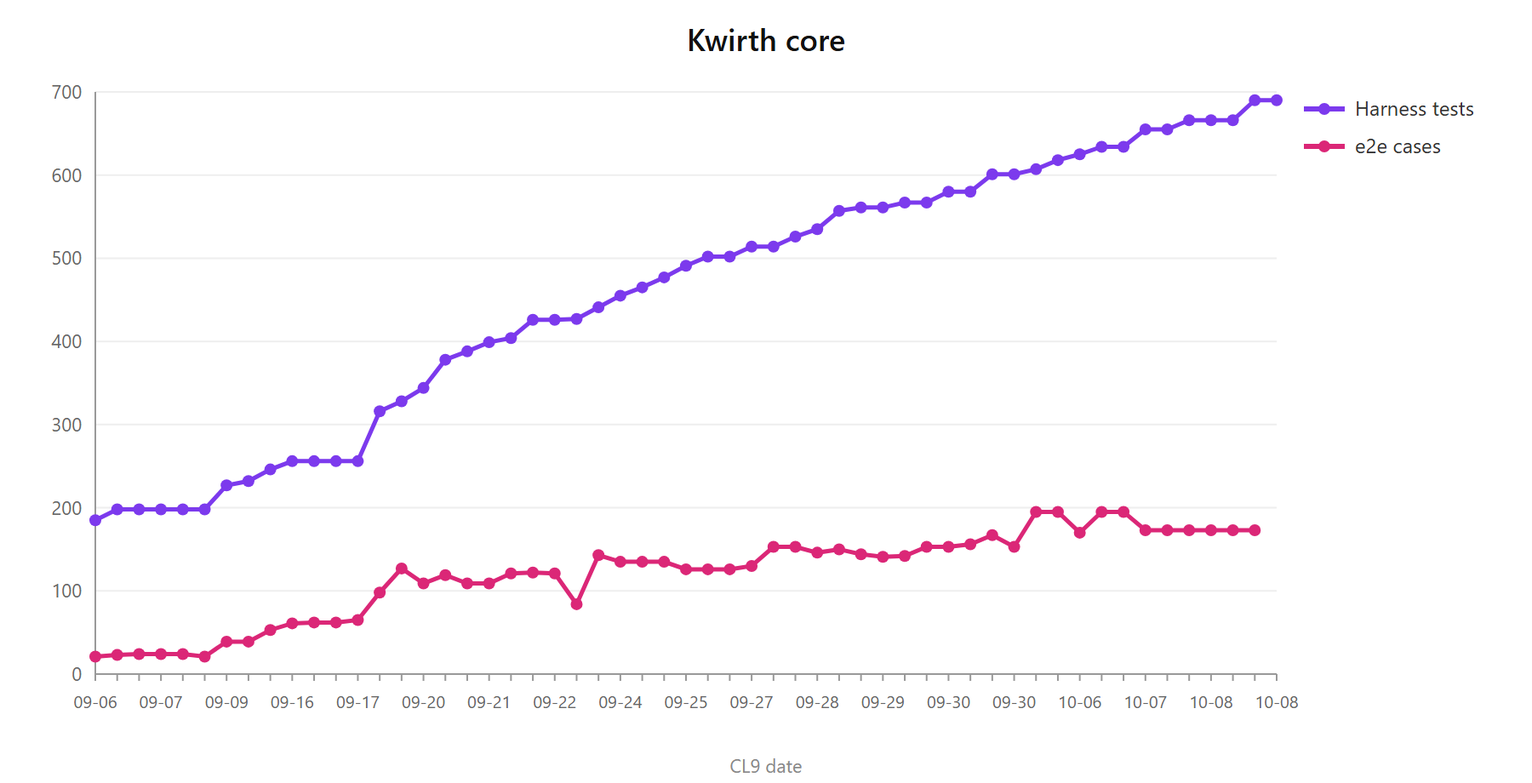
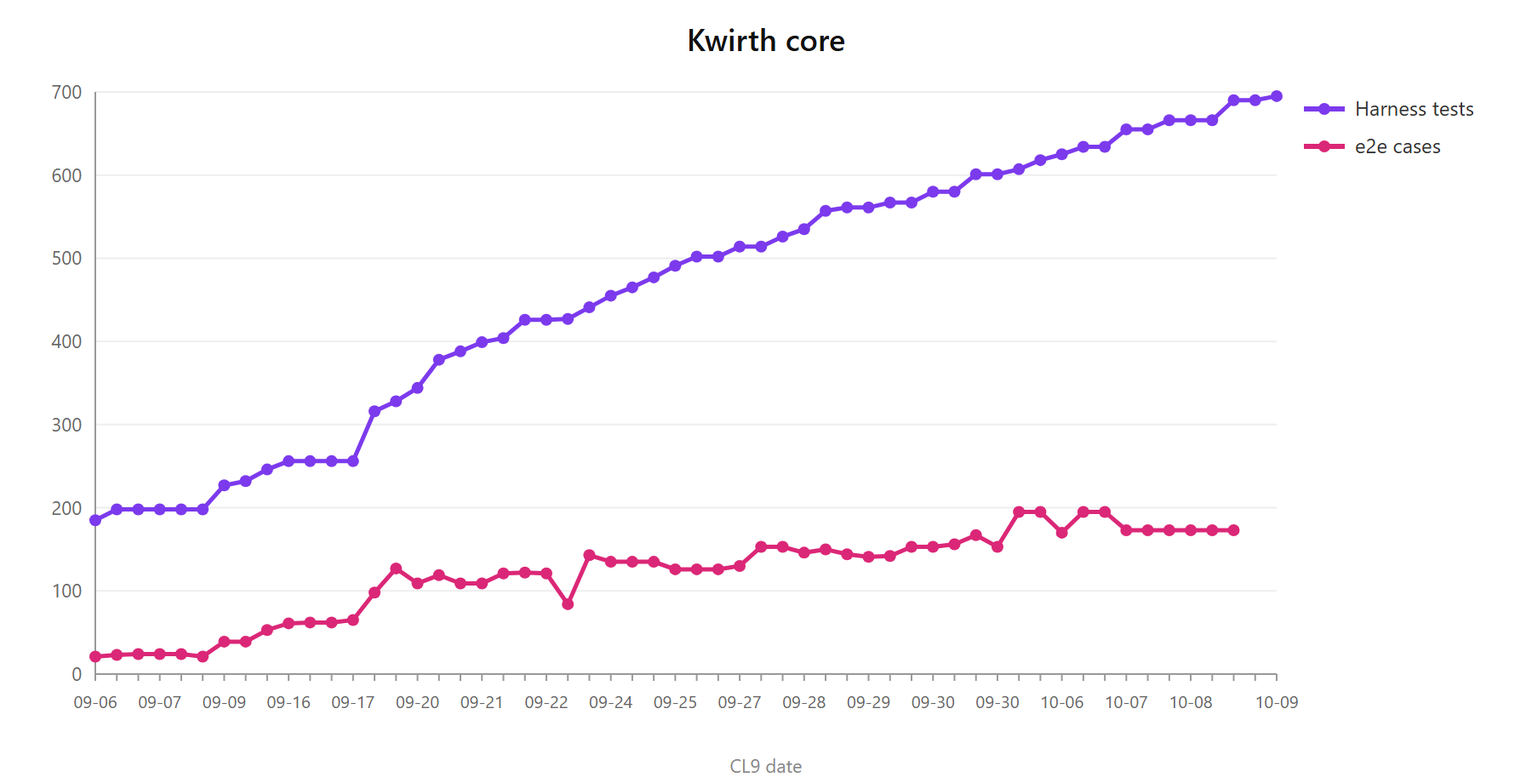
docs(deploy): three ways to deploy, and one profile behind the container ones
The guide, the website and the chart README all said two manifests and two
modes. They now say three, with what each one gives up: kwirth-zero.yaml
and kwirth.mode=zero, a pod with no Kubernetes permissions at all.

The three container READMEs — ecs, aci, cloudrun — gain the thing that
reviewing them made obvious: they are ONE profile, not three. A container
with a mounted volume, an encrypted store at KWIRTH_STORE, and a cluster
only if a kubeconfig is mounted. Each has its own detection signal, and
that is the only difference between them; FORCE=container asks for the
same profile where there is no signal to detect.

Said in all of them, because the name invites the wrong reading:
'container' does not mean 'no cluster'. It means the platform is not one
Kwirth recognises. The ECS task definition with a kubeconfig mounted is
the counter-example, and it is in this repo.

The landing page listed the read-only manifest and not the zero one; both
are there now, each with what it is for.

diff --git a/docs/getting-started.html b/docs/getting-started.html
@@ -179,13 +179,14 @@
   </div>
 
   <h3>Option 2 — kubectl apply</h3>
-  <p>Two manifests, and they differ in one thing: <strong>whether the cluster lets Kwirth change anything</strong>. Each is a single file, each is applied the same way. Pick one.</p>
+  <p>Three manifests, and they differ in one thing: <strong>how much of the cluster Kwirth is allowed to touch</strong>. Each is a single file, each is applied the same way. Pick one.</p>
 
   <div class="table-wrap">
   <table>
     <tr><th>Manifest</th><th>What the cluster lets it do</th><th>Node metrics</th><th>Config lives in</th></tr>
     <tr><td><a href="https://github.com/kwirthmagnify/kwirth/blob/master/deploy/kubernetes/manifests/kwirth.yaml">kwirth.yaml</a></td><td><code>verbs: ['*']</code> on 15 API groups</td><td>yes</td><td>Secrets and ConfigMaps</td></tr>
     <tr><td><a href="https://github.com/kwirthmagnify/kwirth/blob/master/deploy/kubernetes/manifests/kwirth-full-ro.yaml">kwirth-full-ro.yaml</a></td><td><code>get</code>, <code>list</code>, <code>watch</code>. Nothing else, anywhere</td><td>yes</td><td>a PersistentVolumeClaim</td></tr>
+    <tr><td><a href="https://github.com/kwirthmagnify/kwirth/blob/master/deploy/kubernetes/manifests/kwirth-zero.yaml">kwirth-zero.yaml</a></td><td>nothing at all — not one RBAC object in the file</td><td>no</td><td>a PersistentVolumeClaim</td></tr>
   </table>
   </div>
 
@@ -200,6 +201,14 @@
   https://raw.githubusercontent.com/kwirthmagnify/kwirth/master/deploy/kubernetes/manifests/kwirth-full-ro.yaml</pre></div>
 
   <p>What it gives up are the <em>actions</em>: the Magnify commands — restart, scale, cordon, drain, evict, apply, delete — and the <code>ops</code> and <code>fileman</code> plugins. The button stays in the UI and the API server answers 403, so if you do not want buttons that cannot work, do not install those two plugins. Its configuration also moves to a PersistentVolumeClaim instead of Secrets, and that is what removes the write permission rather than a detail of persistence: <code>MASTERKEY</code> becomes the key that configuration is encrypted with: leave it unset and kwirth generates a random one on the first boot and keeps it on the volume, so each installation gets its own instead of a shared default — it must then never change. For at-rest encryption that also resists someone reading the volume, set it from a Secret kept outside the volume.</p>
+
+  <p><strong>kwirth-zero.yaml</strong> — it does not know it is in a cluster. No ClusterRole, no binding, no ServiceAccount of its own, and the token the kubelet projects into every pod turned off, so there is no credential in the container either. Use it where the cluster is not yours to read: a shared platform, a tenant namespace, a policy that does not hand out ClusterRoles. It is the ECS deployment below, in a pod — it serves the front end, installs and runs extensions, keeps its configuration on the volume, uses the database, and <strong>federates</strong> against other Kwirths that do have access. What it loses is everything that reads the cluster it lives in.</p>
+  <div class="code-block"><pre><span class="cmd">kubectl apply</span> <span class="flag">-f</span> \
+  https://raw.githubusercontent.com/kwirthmagnify/kwirth/master/deploy/kubernetes/manifests/kwirth-zero.yaml</pre></div>
+
+  <p>That one carries <code>FORCE=container</code>, and the line is not optional: the kubelet injects <code>KUBERNETES_SERVICE_HOST</code> into every pod, so taking the permissions away does not stop Kwirth being identified as a Kubernetes workload — and inside a cluster the API is deliberately not optional, because a failure there is an error and not a degradation. Note that <code>container</code> does not mean "no cluster": it means the platform is not one Kwirth recognises. Mount a kubeconfig and the same deployment reads that cluster, which is what the ECS task definition below does.</p>
+
+  <p>The Helm chart offers the same three as <code>kwirth.mode</code>: <code>normal</code>, <code>readonly</code> and <code>zero</code>.</p>
 
   <h3>Option 3 — AWS ECS (Fargate or EC2)</h3>
   <p>Kwirth runs as an ECS task with the same image, on either launch type. There is no ECS-specific build, and nothing to declare for the environment to be detected: the ECS agent injects its own metadata variable in both launch types and Kwirth reads it.</p>

diff --git a/docs/index.html b/docs/index.html
@@ -523,7 +523,8 @@
 
 <span class="comment"># Or read-only: the same Kwirth, logs and metrics included,</span>
 <span class="comment"># with no permission to change a single thing in the cluster</span>
-<span class="comment">#   .../manifests/kwirth-full-ro.yaml</span>
+<span class="comment">#   .../manifests/kwirth-full-ro.yaml   reads everything, changes nothing</span>
+<span class="comment">#   .../manifests/kwirth-zero.yaml      no Kubernetes permissions at all</span>
 
 <span class="comment"># Check pod is running</span>
 <span class="cmd">kubectl get pods</span> <span class="flag">-n</span> kwirth

diff --git a/docs/qa/test-metrics-history.md b/docs/qa/test-metrics-history.md
@@ -44,6 +44,7 @@
 
 | Fecha | Cierre | Harness | Cobertura (líneas / ramas / funcs) | e2e | Notas |
 |---|---|---|---|---|---|
+| 2026-10-09 | Un tercer tipo de despliegue: Kwirth en un pod **sin un solo permiso de Kubernetes** (`CONTAINER`, `kwirth-zero.yaml`, chart `mode: zero`) | **695** ✅ (+5) · manifiestos **26** ✅ (+18) · chart **46** ✅ (+7) | sin medir (WIP ajeno en el árbol) | manifiestos **63** ✅ (+23, **los tres**) · chart **77** ✅ (+17, **los tres modos** instalados de verdad en k3d) | **Lo pedido era un despliegue tradicional, sin SA ni roles ni nada, como el de ECS o Docker.** 🔴 **Mi primer diagnóstico fue erróneo y el usuario tenía razón**: dije que hacía falta tocar el core porque dentro de un pod `resolveEnvironmentCapabilities` fija `kubernetes = true` sin preguntar. Lo que no miré es que **`FORCE` existe precisamente para eso** y está documentado en el README de ECS como *override the environment detection*. Con `FORCE=ecs` salía andando sin una línea de código. ⚠ **Pero usar `ecs` en un pod es una mentira visible**: el comentario del propio enum dice que `executionEnvironment` se publica porque *"es lo primero que uno quiere saber al diagnosticar el despliegue de otro"*, y poner `ecs` ahí rompe justo eso. Así que se añadió **`CONTAINER` como valor real**, no como alias. 🔴 **Y el nombre genérico no es cosmético: nombra algo que ya existía.** ECS, Cloud Run y ACI **ya compartían el mismo `case`** en `resolveStore` y ya estaban juntos en la lista de `serverless` — son **un** perfil ("contenedor con volumen montado, store cifrado en `KWIRTH_STORE`, clúster solo si hay kubeconfig") con tres etiquetas, y lo único que los distingue es **cómo se detectan**. `CONTAINER` es el cuarto miembro, y el único que hay que declarar a mano porque no hay señal que detectar: el kubelet inyecta `KUBERNETES_SERVICE_HOST` en todo pod y eso gana. Radio del cambio: **ni el front ni un solo plugin** miran ese enum, solo tres ficheros del back. Efecto lateral bueno: `FORCE=ecs` sondeaba el endpoint de metadatos de ECS en cada arranque, fallaba y se disculpaba en el log; `CONTAINER` va directo al uuid generado. 🔴 **El matiz que salió de revisar `deploy/ecs` y que corrige el nombre**: `container` **no significa "sin clúster"**, significa "plataforma que Kwirth no reconoce". La `task-definition-ec2.json` **monta un kubeconfig** y sí ve su clúster — lo manda `probes.kubeconfig`, nunca el nombre del entorno. Está fijado en un test y dicho en las tres cabeceras. **El manifiesto son 5 objetos** (4 sin el bloque de SQL): Namespace, el Secret de la contraseña de la base, PVC, Deployment y Service. **Ni un objeto RBAC**, y `automountServiceAccountToken: false`, que es la mitad que no es RBAC: sin eso "sin roles" deja igualmente una credencial dentro del contenedor. Probado arrancando: `executionEnvironment: 'container'`, `clusterType: none`, el store cifrado escrito en el PVC y **el directorio del token inexistente** dentro del pod. **En el chart es `mode: zero`**, y como los otros dos arrastra consigo lo que tiene que ir junto: sin RBAC, sin ServiceAccount, token apagado, `FORCE=container` y los dos canales de clúster en false. Se niega a renderizar tres combinaciones, incluida **pedir RBAC en el modo cuyo propósito es no tenerlo**. ⚠ **Dos bugs del chart que destapó el modo nuevo.** (1) `users.bootstrap` estaba atado al MODO cuando la condición real es el **STORE**: el core lee ese Secret solo si su store es el clúster, así que un `normal` con `persistence` activada llevaba tiempo renderizando un Secret de usuarios **que nadie lee**. (2) `rbac.create` y `serviceAccount.create` estaban fijados a `true` en vez de derivarse; ahora siguen al modo y un `true` explícito con `zero` se rechaza como la contradicción que es. **Los tests pasan a cubrir TODAS las opciones de despliegue**, que es lo que se pidió: los unitarios de manifiestos miran los **tres** ficheros (antes uno), y el e2e los prueba a cada uno desde el ángulo que le toca — que el permisivo **sí puede** hacer `exec`, `delete` y `patch`, que es su razón de ser y nadie lo comprobaba; que el de lectura no puede; y que en el `zero` el ServiceAccount `default` al que cae **no puede absolutamente nada**. El del chart instala los tres modos de verdad, y en `zero` comprueba lo único que no se puede leer del YAML: que **arranca** como contenedor en vez de caer al `localhost:8080` inventado del cliente. ⚠ **Dos veces me destrozó bash las template literals** al insertar código con heredocs, la segunda dejando el fichero del e2e roto; se arregló escribiendo el bloque con la herramienta de ficheros y empalmándolo con un script, sin shell de por medio. `@kwirthmagnify/kwirth-common` a **0.5.66** |
 | 2026-10-08 | Ninguna contraseña en claro, en ningún sitio — y el chart genera y enseña la del admin | **690** ✅ (+2 de login) · chart **38** ✅ (+5) | sin medir (WIP ajeno en el árbol) | manifiesto **40** ✅ · chart **60** ✅ (+6), los dos modos contra k3d con imagen propia | **Se quitó la rama de login que aceptaba una contraseña guardada en TEXTO PLANO.** Existía para migrar instalaciones anteriores al hasheo: comparaba `sha256(stored)` y re-hasheaba al pasar. 🔴 **Un camino que acepta una contraseña sin hashear es un camino que hace que guardarla sin hashear funcione**, así que fuera, y con él el `migrate` entero. ⚠ **Es ruptura deliberada y así está documentada**: quien tenga una se queda fuera y hay que borrar su Secret de usuarios. 🔴 **Lo que costó no fue quitarla, fue el dominó.** Lo guardado es `bcrypt(sha256(contraseña))` y no `bcrypt(contraseña)` —el navegador manda el sha256 y el texto claro no sale de ahí—, así que **todo lo que siembra un usuario** tuvo que alinearse: `createAdminUserIfMissing` del core, el blob a fuego de `kwirth.yaml` (y de paso su clave de Secret, que ahora es `YWRtaW4`, base64url como la escribe el core) y el chart. `UserApi` ya hasheaba. Y el aviso de «cambia tu contraseña» no podía seguir detectándose con `stored === 'password'`: ahora es un `bcrypt.compare(sha256('password'), stored)`, así que el admin sembrado por defecto sigue recibiendo su 201. **Se aceptan los tres prefijos** (`$2a$`, `$2b$`, `$2y$`) y no solo `$2b$`: `bcryptjs` los verifica igual y exigir uno rechazaba hashes de herramientas normales — el `htpasswd` de Helm emite `$2a$`. 🔴 **Y el e2e destapó un bug serio del core, anterior a todo esto.** `KubernetesSecrets.write` hacía `replaceNamespacedSecret` con un `metadata` de solo `name`, `namespace` y `resourceVersion`. Un replace es un PUT: sustituye el objeto entero, así que la primera vez que Kwirth escribía el Secret de usuarios **borraba** `helm.sh/resource-policy: keep` y las annotations de Helm — y el siguiente `helm upgrade` **se llevaba el Secret con todos los usuarios dentro**. Lo mismo en `KubernetesConfigMaps` para `kwirth.keys`. Ahora se conservan labels y annotations del objeto vivo. El bug ya estaba (cualquier alta de usuario desde la UI lo provocaba), pero generar la contraseña hizo que el primer login dejara de devolver 201 —que salía **antes** de migrar— y pasara a 200, que sí migra: pasó a saltar en **la primera instalación de todas**. El e2e lo cazó y ahora lo vigila. ⚠ **Tres rojos del camino fueron aserciones MÍAS desfasadas, ninguna del producto**: esperaba `$2b$` tras el upgrade cuando ya no hay migración y se queda el `$2a$` del chart; comparaba la contraseña impresa contra la guardada **por igualdad** cuando la guardada es un hash; y dos unitarios del chart afirmaban sobre el texto claro. Los tres verifican ahora con `bcrypt.compare` contra el `sha256`, que es lo que hace el core — y es más fuerte que mirar la forma del hash, porque comprobar solo el prefijo pasaría igual de contento con el hash de otra cosa. **Documentación**: la ruptura en `commontasks.md` y en la guía del admin (`04-security-and-permissions`, sección nueva sobre cómo se guardan las contraseñas), el modo readonly y la contraseña generada en `installation.md` y en el README del chart, y el plan de helm con sus streams. ⚠ Cobertura sin medir: el árbol tiene WIP de otra sesión y el número no sería el de lo commiteado |
 | 2026-10-08 | Auth hardening: sin MASTERKEY por defecto, bearer keys con HMAC, rate-limit de login (`plans/auth-hardening`) | **690** ✅ (+24) · 22 nuevos del stream (`masterKey` 5, `bearerSigning` 7, `loginRateLimiter` 5, `isValidKey` 5) | **81.11 % / 85.01 % / 80.06 %** | 47 specs · 173 casos (playwright sin cambios) · **`e2e:boot` 6/6** (Cloud Run, ACI, ECS, reinicio conserva identidad) · **QA en k3d: 4 escenarios** — FILE/PVC, store KUBERNETES, Tier-2 con MASTERKEY explícito, y rate-limit | **Una auditoría de la superficie de autenticación sacó un CRÍTICO real.** El `masterKey` por defecto era `Kwirth4Ever`, público y a fuego en código, chart, docs y tests: con él **cualquiera forja una bearer key admin offline** —`md5(masterKey\|resources\|expire)` sin estado en servidor— y la instancia la acepta. Verificado explotándolo: una `admin::::` firmada con `Kwirth4Ever` entraba en `/user`, `/key`, `/core/scopes`. 🔴 **La emergencia no era el algoritmo, era que el secreto fuese público**: en cuanto la clave es única y secreta, el esquema aguanta. **A1/A2** — fuera el default; si `MASTERKEY` no está, el core **genera una aleatoria y la persiste** en el store plano (`tools/MasterKey.ts`), no en secrets (ahí sería huevo-y-gallina: `NodeSecrets` cifra CON la clave). Clave y store cifrado **comparten volumen**, así que comparten destino: un reinicio que conserva el volumen la relee, uno que lo pierde los pierde a ambos — nunca hay store cifrado huérfano. 🔴 **Dos tiers, y el warn lo dice sin maquillar**: auto-generada cierra la forja (quien forja no tiene tu volumen), pero el cifrado at-rest es **ofuscación** mientras la clave viva al lado del cifrado; para protección real del volumen, `MASTERKEY` desde fuera (Secret de K8s). **A3** — `GET /config/info` dejaba ver `clusterName`/`namespace`/`deployment` **sin auth** (reconocimiento pre-login); ahora los redacta salvo clave válida (`isValidKey`, el chequeo silencioso sin 403 ni log). **A4** — un `RECONNECT` por WebSocket se procesaba **antes** de validar el accessKey: con un UUID de instancia filtrado se secuestraba un stream. Ahora exige accessKey válido (back valida, front manda su `accessString`). ⚠ El binding por-instancia (que la clave autorice ESA instancia) queda como follow-up documentado. **A5** — `/login` y `/login/password` solo estaban serializados por un semáforo, no limitados: `tools/LoginRateLimiter.ts` corta por `ip+user` (5 fallos → 429 + `Retry-After`), y un login correcto limpia el contador. **A6 (breaking)** — `md5(masterKey\|resources\|expire)` → **HMAC-SHA256** de `resources\|expire` con la masterKey de clave, comparado en tiempo constante (`timingSafeEqual`). md5 era un hash roto usado como MAC con el secreto de prefijo (la forma del length-extension); HMAC es un MAC de verdad. Invalida las bearer viejas a propósito, y toca el comando `APIKEY` y `deploy/external/main.js`. 🔴 **Se corrigió un error del informe inicial sobre A6**: el length-extension **no** aplicaba aquí —`resources` va en medio del mensaje firmado (inmutable) y la cola `expire` se valida como número—, así que HMAC es endurecimiento, no un vector abierto. **A7** — la enumeración de inventario de extensiones sin auth se dejó **documentada sin tocar**: gatearla rompería el login pre-auth (que necesita listar logins/themes). Manifiestos (`kwirth.yaml`, `kwirth-full-ro.yaml`) y el tool externo sin el default. Harness, typecheck, `e2e:boot` y k3d en verde; el QA manual con build propio del usuario queda pendiente del gate. ⚠ `index.ts` llevó entremezclado el WIP de `reapStaleSessions` (common-sql, otra sesión), ya resuelto con el bump. Solo core: nada que publicar, ningún tag |
 | 2026-10-08 | El chart de Helm instala en dos modos, y se inventa su propia MASTERKEY (chart `0.3.0`) | **666** ✅ (sin cambios en el core) · **chart 33 ✅** (+10) | sin medir (sin cambios en el core) | 47 specs · 173 casos (sin cambios) · **`helm/tests/run-e2e.mjs`: 54 comprobaciones ✅** (+22), los **dos modos** instalados de verdad en k3d | **El «RBAC explícito» del chart era cluster-admin con otro nombre**, igual que el manifiesto: `resources:['*'], verbs:['*']` sobre una lista de grupos, y `clusterAdmin: true` aún más ancho. Ahora `kwirth.mode` vale `normal` o `readonly`, y el modo **arrastra consigo todo lo que tiene que ir junto**: el rol de una sola regla, el store en PVC, `exitLog` y `users.bootstrap` a false y un `securityContext` endurecido con su `emptyDir` en `/tmp`. 🔴 **Los dos últimos no se FUERZAN, se usan como default**: sus valores pasaron de `true` a vacío y el modo decide solo si el operador no ha dicho nada, porque pisar una elección explícita es peor que un default malo. 🔴 **Lo que un chart puede hacer y un YAML no es NEGARSE A RENDERIZAR**, y ahí está el valor real frente al manifiesto: cuatro combinaciones paradas en seco con su explicación — `readonly` sin store (el caso grave: la instalación arranca sana y pierde los usuarios al primer reinicio), `readonly` con `clusterAdmin`, un `mode` mal escrito, y —la que menos se ve venir— un `extraRules` con un verbo de escritura, que se añade tal cual al rol y deshacía el modo entero en silencio. Las reglas de **lectura** extra siguen pasando, que es para lo que se usan. ⚠ **`apiGroups` y `extraApiGroups` se ignoran en `readonly`**: el comodín ya los cubre, CRDs incluidos, que es la razón de que sea comodín. **Y la MASTERKEY deja de ser una contraseña publicada.** Era `Kwirth4Ever` a fuego en `values.yaml`; ahora se genera aleatoria de 40 caracteres en la primera instalación. 🔴 **Lo difícil no era generarla, era que no cambiara NUNCA más**: rotarla no es un cambio de configuración, es pérdida de datos —invalida todas las access keys emitidas y, con store en volumen, el fichero deja de descifrarse—, y falla **en silencio**: el core no encuentra usuarios legibles y vuelve a sembrar el admin por defecto, así que una instalación perdida tiene el mismo aspecto que una nueva. Y el PVC lleva `resource-policy: keep`, o sea que **sobrevive al desinstalar**: una clave nueva en el reinstall lo dejaría ilegible. Así que vive en un Secret propio, también `keep`, y se resuelve en cuatro pasos: la que puso el operador, la del Secret vivo, **el `MASTERKEY` del Secret de entorno vivo** —la ruta de migración, sin la cual el primer upgrade rotaría la clave de todas las instalaciones existentes— y, por último, una nueva. El e2e comprueba las tres invariantes que `helm template` no puede: sobrevive al upgrade, se conserva al desinstalar, y **el reinstall la adopta**. Efecto lateral: sin licencia ni SQL ya no se renderiza Secret de entorno, porque no queda nada dentro. ⚠ **Limitación documentada en los values**: `helm template` no mira el clúster, así que genera una clave distinta en cada render; quien despliegue desde output renderizado (Argo CD) tiene que fijar `config.masterkey` o cada sync la rota. Comprobado. **De paso se cerró el QA del chart `0.2.x`, parado en su gate desde el 2026-09-28**: la fase normal del e2e pasa entera, incluido el upgrade que conserva un usuario añadido fuera de Helm. ⚠ **Un fallo del e2e fue mío, no del chart**: el helper `kget` tenía el namespace fijo al de la fase normal, así que en la fase `readonly` preguntaba en el sitio equivocado y daba vacío; lo delató que el resto de la fase pasaba, login incluido. 🔴 **PENDIENTE y bloqueante para publicar**: `appVersion` sigue en `0.6.38`, y las métricas en `readonly` necesitan el token proyectado, o sea **0.6.65 o posterior**. Con el default actual, `mode: readonly` instalaría una imagen sin B1 y arrancaría sin métricas. Hay aviso en `NOTES.txt`, pero antes del publish hay que subirlo |

diff --git a/docs/0.6.31/installation.md b/docs/0.6.31/installation.md
@@ -79,12 +79,13 @@ helm repo install kwirth kwirth/kwirth -n kwirth --create-namespace -f values.ya
 
 ## Kubernetes: deploy kwirth using MANIFESTS
 
-There are two manifests in [`deploy/kubernetes/manifests`](https://github.com/kwirthmagnify/kwirth/tree/master/deploy/kubernetes/manifests), and they differ in one thing: **whether the cluster lets kwirth change anything**. Each is a single file, and each is applied the same way. Pick one.
+There are three manifests in [`deploy/kubernetes/manifests`](https://github.com/kwirthmagnify/kwirth/tree/master/deploy/kubernetes/manifests), and they differ in one thing: **how much of the cluster kwirth is allowed to touch**. Each is a single file, and each is applied the same way. Pick one.
 
 | Manifest | What the cluster lets it do | Node metrics | Configuration lives in |
 | - | - | - | - |
 | `kwirth.yaml` | `resources: ['*']`, `verbs: ['*']` on 15 API groups | yes | Secrets and ConfigMaps |
 | `kwirth-full-ro.yaml` | `get`, `list`, `watch`. Nothing else, anywhere | yes | a PersistentVolumeClaim |
+| `kwirth-zero.yaml` | nothing at all — not one RBAC object in the file | no | a PersistentVolumeClaim |
 
 ### `kwirth.yaml` — everything works
 
@@ -116,6 +117,35 @@ kubectl apply -f https://raw.githubusercontent.com/kwirthmagnify/kwirth/master/d
 - The first boot creates the admin user as `admin` / `password`, in the volume. Change it immediately.
 
 **One thing it does allow: reading Secrets.** It grants read on every resource, Secrets included. Kubernetes RBAC has no deny rules and no way to express "every group except this one", so a role cannot both cover the CustomResourceDefinitions kwirth watches — which differ from cluster to cluster and cannot be known in advance — and leave Secrets out. If your requirement is that Secrets stay unreadable, the file carries an enumerated alternative, commented in its header, that you can paste over the single rule; its cost is that events from CustomResourceDefinitions will not arrive.
+
+### `kwirth-zero.yaml` — it does not know it is in a cluster
+
+A pod with **no Kubernetes permissions at all**. There is nothing RBAC-shaped in the file — no ClusterRole, no binding, no ServiceAccount of its own — and the token the kubelet projects into every pod is turned off, so there is no credential in the container either.
+
+```
+kubectl apply -f https://raw.githubusercontent.com/kwirthmagnify/kwirth/master/deploy/kubernetes/manifests/kwirth-zero.yaml
+```
+
+Use it when the cluster is not yours to read: a shared platform, a tenant namespace, a policy that does not hand out ClusterRoles. It is the ECS deployment, in a pod — the same kwirth, configured the same way.
+
+**What it still does.** It serves the front end and the marketplace, installs and runs extensions, keeps its configuration on the volume, uses the database for the extensions that accumulate data, and **federates**: point it at other kwirths that do have access and you see their logs, metrics and resources from here. Extensions that do not look at the infrastructure work exactly as anywhere else, which is what this deployment is for.
+
+**What it does not do** is everything that reads the cluster it lives in: logs, metrics, events and the resource browser. The two core channels are off in the file because there would be nothing behind them; do not install the plugins that read the cluster either.
+
+**It is told what it is**, with `FORCE=container`, and that line is not optional. The kubelet injects `KUBERNETES_SERVICE_HOST` into every pod, so taking the permissions away does not stop kwirth being identified as a Kubernetes workload — and inside a cluster the API is deliberately not optional, because a failure there is an error and not a degradation. Without it the pod comes up, finds no credentials, falls back to an invented cluster at `localhost:8080`, fails its first call and never starts.
+
+!> `container` does **not** mean "no cluster". It means the platform is not one kwirth recognises. Mount a kubeconfig and the same deployment reads that cluster, which is exactly what the ECS task definition with a kubeconfig does. What decides is whether a usable kubeconfig is there, never the name of the environment.
+
+### The same three, with Helm
+
+The chart offers the three as `kwirth.mode`: `normal`, `readonly` and `zero`. See [Read-only with Helm](#read-only-with-helm) above; `zero` works the same way and also needs `persistence`:
+
+```
+helm install kwirth kwirth/kwirth -n kwirth --create-namespace \
+  --set kwirth.mode=zero --set kwirth.persistence.enabled=true
+```
+
+In that mode the chart renders no RBAC and no ServiceAccount at all, and it refuses to render if you ask for either — a request for permissions in the mode whose point is having none is a contradiction, and quietly picking one of the two answers would leave you believing you installed something you did not.
 
 ## Storage configuration
 

diff --git a/deploy/kubernetes/helm/kwirth/README.md b/deploy/kubernetes/helm/kwirth/README.md
@@ -20,25 +20,47 @@ install and prints it there; that is the only place it is shown in the clear. Un
 can still read it out of the `kwirth-users` Secret — the notes print the exact command — and after the
 first login the core has replaced it with a bcrypt hash and it cannot be read back at all.
 
-### Two modes
+### Three modes
+
+`kwirth.mode` is how much of the cluster the install is allowed to touch. It is one value, and it
+carries with it everything that has to travel with it.
+
+| mode | the ClusterRole | what it gives up |
+| - | - | - |
+| `normal` | every verb on the listed API groups | nothing |
+| `readonly` | one rule: `get`, `list`, `watch` | the actions that change the cluster |
+| `zero` | there is none | everything that reads the cluster |
 
 ```bash
 # everything works, including the actions that change the cluster
 helm install kwirth kwirth/kwirth -n kwirth --create-namespace
 
-# read-only: it can see everything and change nothing
+# read-only: it sees everything and changes nothing
 helm install kwirth kwirth/kwirth -n kwirth --create-namespace \
   --set kwirth.mode=readonly --set kwirth.persistence.enabled=true
+
+# zero: no permissions at all, and no credential in the container
+helm install kwirth kwirth/kwirth -n kwirth --create-namespace \
+  --set kwirth.mode=zero --set kwirth.persistence.enabled=true
 ```
 
-In `readonly` the ClusterRole is a single rule — `get`, `list`, `watch` — so the Magnify commands
-(restart, scale, cordon, drain, evict, apply, delete) and the `ops` and `fileman` plugins answer 403
-with the button still in the UI. Do not install those two there. Logs, metrics, events and the resource
-browser work exactly the same.
+In **`readonly`** the Magnify commands (restart, scale, cordon, drain, evict, apply, delete) and the
+`ops` and `fileman` plugins answer 403 with the button still in the UI. Do not install those two there.
+Logs, metrics, events and the resource browser work exactly the same.
 
-That mode needs its configuration kept outside the cluster, which is what `persistence` is for; the
-chart refuses to render without it rather than hand you an install that looks healthy and loses its
-users on the first restart. See `kwirth.mode` under [Configuration](#configuration-config-one-env-var-each).
+In **`zero`** there is no ClusterRole, no binding and no ServiceAccount of its own, and the token the
+kubelet projects into every pod is turned off, so there is no credential in the container either. It is
+the ECS deployment, in a pod: it serves the front end, installs and runs extensions, keeps its
+configuration on the volume, uses the database, and federates against other kwirths that do have
+access. What it loses is everything that reads the cluster it lives in, so the two core channels are
+off and the chart launches the core with `FORCE=container` — without which the pod would be identified
+as a Kubernetes workload and refuse to start without an API it is not allowed to reach.
+
+Both of those modes keep their configuration outside the cluster, which is what `persistence` is for,
+and the chart **refuses to render** without it rather than hand you an install that looks healthy and
+loses its users on the first restart. It refuses a few other combinations too — asking for RBAC in
+`zero`, or `clusterAdmin` in `readonly`, or an `extraRules` with a write verb in it — because quietly
+picking one of two opposite answers leaves somebody believing they installed what they did not.
 
 ## Upgrade from chart 0.1.x
 

diff --git a/plans/helm/PLAN.md b/plans/helm/PLAN.md
@@ -1,11 +1,13 @@
 # Helm chart de Kwirth — revisión y puesta al día
 
-> **Estado (2026-10-08): chart `0.3.0`, QA pasado. Queda publicarlo.**
-> El QA del `0.2.x` que llevaba parado desde el 28/09 se hizo por fin, y encima se añadieron tres cosas:
-> el modo **`readonly`**, la **MASTERKEY generada** y la **contraseña de admin generada y mostrada al
-> instalar**. 38 tests unitarios y 60 comprobaciones e2e contra k3d, los dos modos instalados de verdad.
-> 🔴 **Bloqueante para publicar**: `appVersion` sigue en `0.6.38`, y este chart necesita un core con los
-> arreglos del 2026-10-08 (token proyectado, metadata en el `replace`, bcrypt `$2a$`).
+> **Estado (2026-10-09): chart `0.3.0` publicado, con TRES modos de instalación.**
+> `normal` (gestiona el clúster), `readonly` (lo observa y no lo cambia) y `zero` (ni sabe que está en
+> uno). Más la MASTERKEY generada y la contraseña de admin generada y mostrada al instalar. **46 tests
+> unitarios y 77 comprobaciones e2e** contra k3d, con los tres modos instalados de verdad. El QA del
+> `0.2.x`, parado en su gate desde el 28/09, se hizo por fin de camino.
+> ⚠ El chart se publicó con `appVersion 0.6.65` y el tag por defecto `develop`: ese tag tiene que llevar
+> un core con los arreglos del 2026-10-08 y el `CONTAINER` del 09, o el modo `zero` no arranca y el login
+> de los otros dos da 401 (rechazan el bcrypt `$2a$` que escribe el chart).
 
 ## Por qué
 
@@ -88,6 +90,7 @@ correctos, analizar versionado y publicación, y completarlos con todo lo que ti
 | S4 | **modo `readonly`** (chart `0.3.0`): una regla `get/list/watch`, store en PVC obligatorio, `exitLog` y `users.bootstrap` derivados, securityContext endurecido y `/tmp`. Y cuatro combinaciones que el chart **se niega a renderizar** | ✅ hecho y QA pasado |
 | S5 | **MASTERKEY generada** en su propio Secret `keep`, con lookup en upgrade y reinstall, y la ruta de migración desde el Secret de entorno de charts anteriores | ✅ hecho y QA pasado |
 | S6 | **contraseña de admin generada y mostrada** en las notas de instalación, guardada como `bcrypt(sha256())` y con la clave del Secret en base64url como la escribe el core | ✅ hecho y QA pasado |
+| S7 | **modo `zero`**: un pod sin un solo permiso de Kubernetes. Ni RBAC ni ServiceAccount, token proyectado apagado, `FORCE=container` y los canales de clúster en false. Se niega a renderizar si le piden RBAC | ✅ hecho y QA pasado (2026-10-09) |
 
 ## Backlog
 

diff --git a/deploy/ecs/README.md b/deploy/ecs/README.md
@@ -201,7 +201,7 @@ pointing somewhere else, will keep cycling the task without telling you why.
 | `PORT` | listening port (default `3883`) | with `awsvpc` the host port is the same |
 | `ROOTPATH` | path prefix, if Kwirth hangs off a subpath | needed when the load balancer routes by path |
 | `KUBECONFIG` | path to the kubeconfig | only if you want it to observe a cluster |
-| `FORCE` | override the environment detection | **not needed**: the ECS agent's own metadata variable is what identifies ECS, in both launch types |
+| `FORCE` | override the environment detection | **not needed here**: the ECS agent's own metadata variable identifies ECS in both launch types. `FORCE=container` asks for this same profile where there is no such signal — see below |
 | `BODYLIMIT` | max request body (default `8mb`) | raise it if a log collector batches large payloads |
 | `KEEPALIVE` | idle connection timeout in ms (default `65000`) | lower than the load balancer's idle timeout causes resets |
 
@@ -351,3 +351,20 @@ OTLP works the same way through the `otel` provider, with one caveat: it reads *
 
 The admin user is created on first start with a default password. **Change it before exposing the task**,
 and remember that if you did not set `KWIRTH_STORE` that change disappears with the task.
+
+## The same profile, where detection cannot work
+
+ECS, Cloud Run and ACI share one profile — a container with a mounted volume, an encrypted file store
+at `KWIRTH_STORE`, and a cluster only if a kubeconfig is mounted — and differ only in **how Kwirth
+recognises them**. Each has its own signal: the agent's metadata variable here, `K_SERVICE` on Cloud
+Run, the Azure identity endpoint on ACI.
+
+Where there is no such signal, ask for the profile by name with `FORCE=container`. The case that forced
+it into existence is a **pod with no Kubernetes permissions at all**: the kubelet injects
+`KUBERNETES_SERVICE_HOST` into every container, so taking the permissions away does not stop Kwirth
+being identified as a Kubernetes workload — and inside a cluster the API is deliberately not optional,
+because a failure there is an error and not a degradation. See
+[`deploy/kubernetes/manifests/kwirth-zero.yaml`](../kubernetes/manifests/kwirth-zero.yaml), which is
+this very deployment running in a pod.
+
+You do not need it here: an ECS task is detected on its own, on both launch types.

diff --git a/deploy/aci/README.md b/deploy/aci/README.md
@@ -81,3 +81,19 @@ Nothing by default, and that is a complete configuration: the front, users, auto
 ingestion providers all work, and the cluster type is reported as `none`. To observe a Kubernetes cluster
 (AKS or any other), mount a kubeconfig and point `KUBECONFIG` at it — note that an AKS kubeconfig that uses
 Entra ID calls `kubelogin`, which is not in the image.
+
+## The same profile, where detection cannot work
+
+ACI, Cloud Run and ECS share one profile — a container with a mounted volume, an encrypted file store
+at `KWIRTH_STORE`, and a cluster only if a kubeconfig is mounted — and differ only in **how Kwirth
+recognises them**. Each has its own signal: the Azure identity endpoint here, `K_SERVICE` on Cloud Run,
+the agent's metadata variable on ECS.
+
+Where there is no such signal, ask for the profile by name with `FORCE=container`. The case that forced
+it into existence is a **pod with no Kubernetes permissions at all**: the kubelet injects
+`KUBERNETES_SERVICE_HOST` into every container, so taking the permissions away does not stop Kwirth
+being identified as a Kubernetes workload — and inside a cluster the API is deliberately not optional,
+because a failure there is an error and not a degradation. See
+[`deploy/kubernetes/manifests/kwirth-zero.yaml`](../kubernetes/manifests/kwirth-zero.yaml).
+
+You do not need it here: this container group is detected on its own.

diff --git a/deploy/cloudrun/README.md b/deploy/cloudrun/README.md
@@ -80,3 +80,19 @@ Nothing by default, and that is a complete configuration: the front, users, auto
 ingestion providers all work, and the cluster type is reported as `none`. To observe a Kubernetes cluster
 (GKE or any other), mount a kubeconfig and point `KUBECONFIG` at it — note that a GKE kubeconfig usually
 calls `gke-gcloud-auth-plugin`, which is not in the image.
+
+## The same profile, where detection cannot work
+
+Cloud Run, ACI and ECS share one profile — a container with a mounted volume, an encrypted file store
+at `KWIRTH_STORE`, and a cluster only if a kubeconfig is mounted — and differ only in **how Kwirth
+recognises them**. Each has its own signal: `K_SERVICE` here, the Azure identity endpoint on ACI, the
+agent's metadata variable on ECS.
+
+Where there is no such signal, ask for the profile by name with `FORCE=container`. The case that forced
+it into existence is a **pod with no Kubernetes permissions at all**: the kubelet injects
+`KUBERNETES_SERVICE_HOST` into every container, so taking the permissions away does not stop Kwirth
+being identified as a Kubernetes workload — and inside a cluster the API is deliberately not optional,
+because a failure there is an error and not a degradation. See
+[`deploy/kubernetes/manifests/kwirth-zero.yaml`](../kubernetes/manifests/kwirth-zero.yaml).
+
+You do not need it here: a Cloud Run service is detected on its own.
